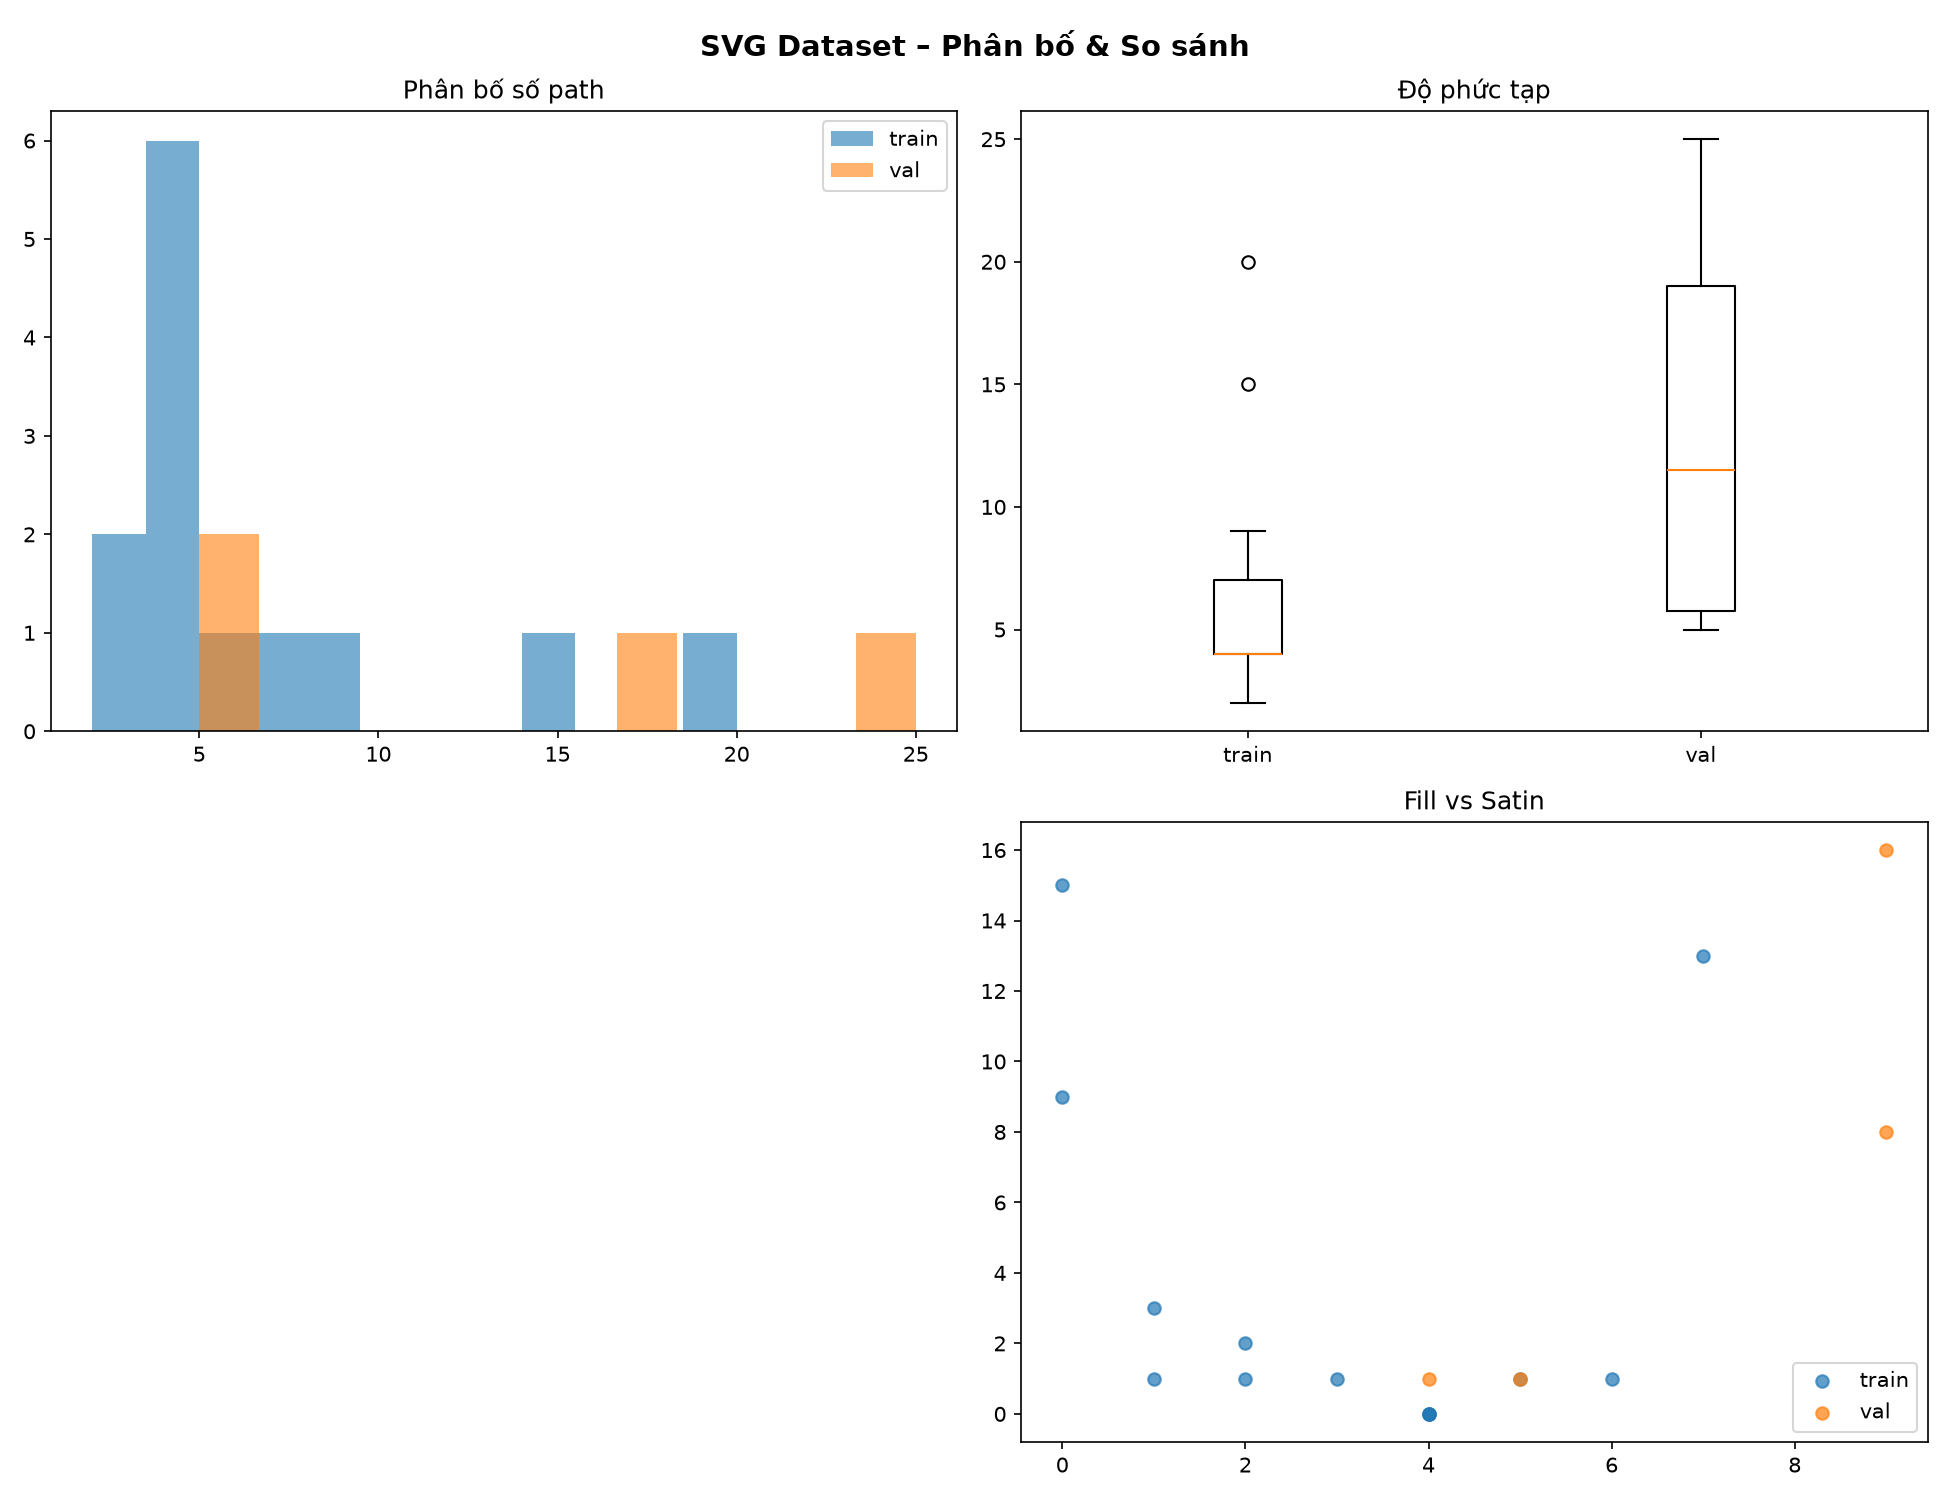
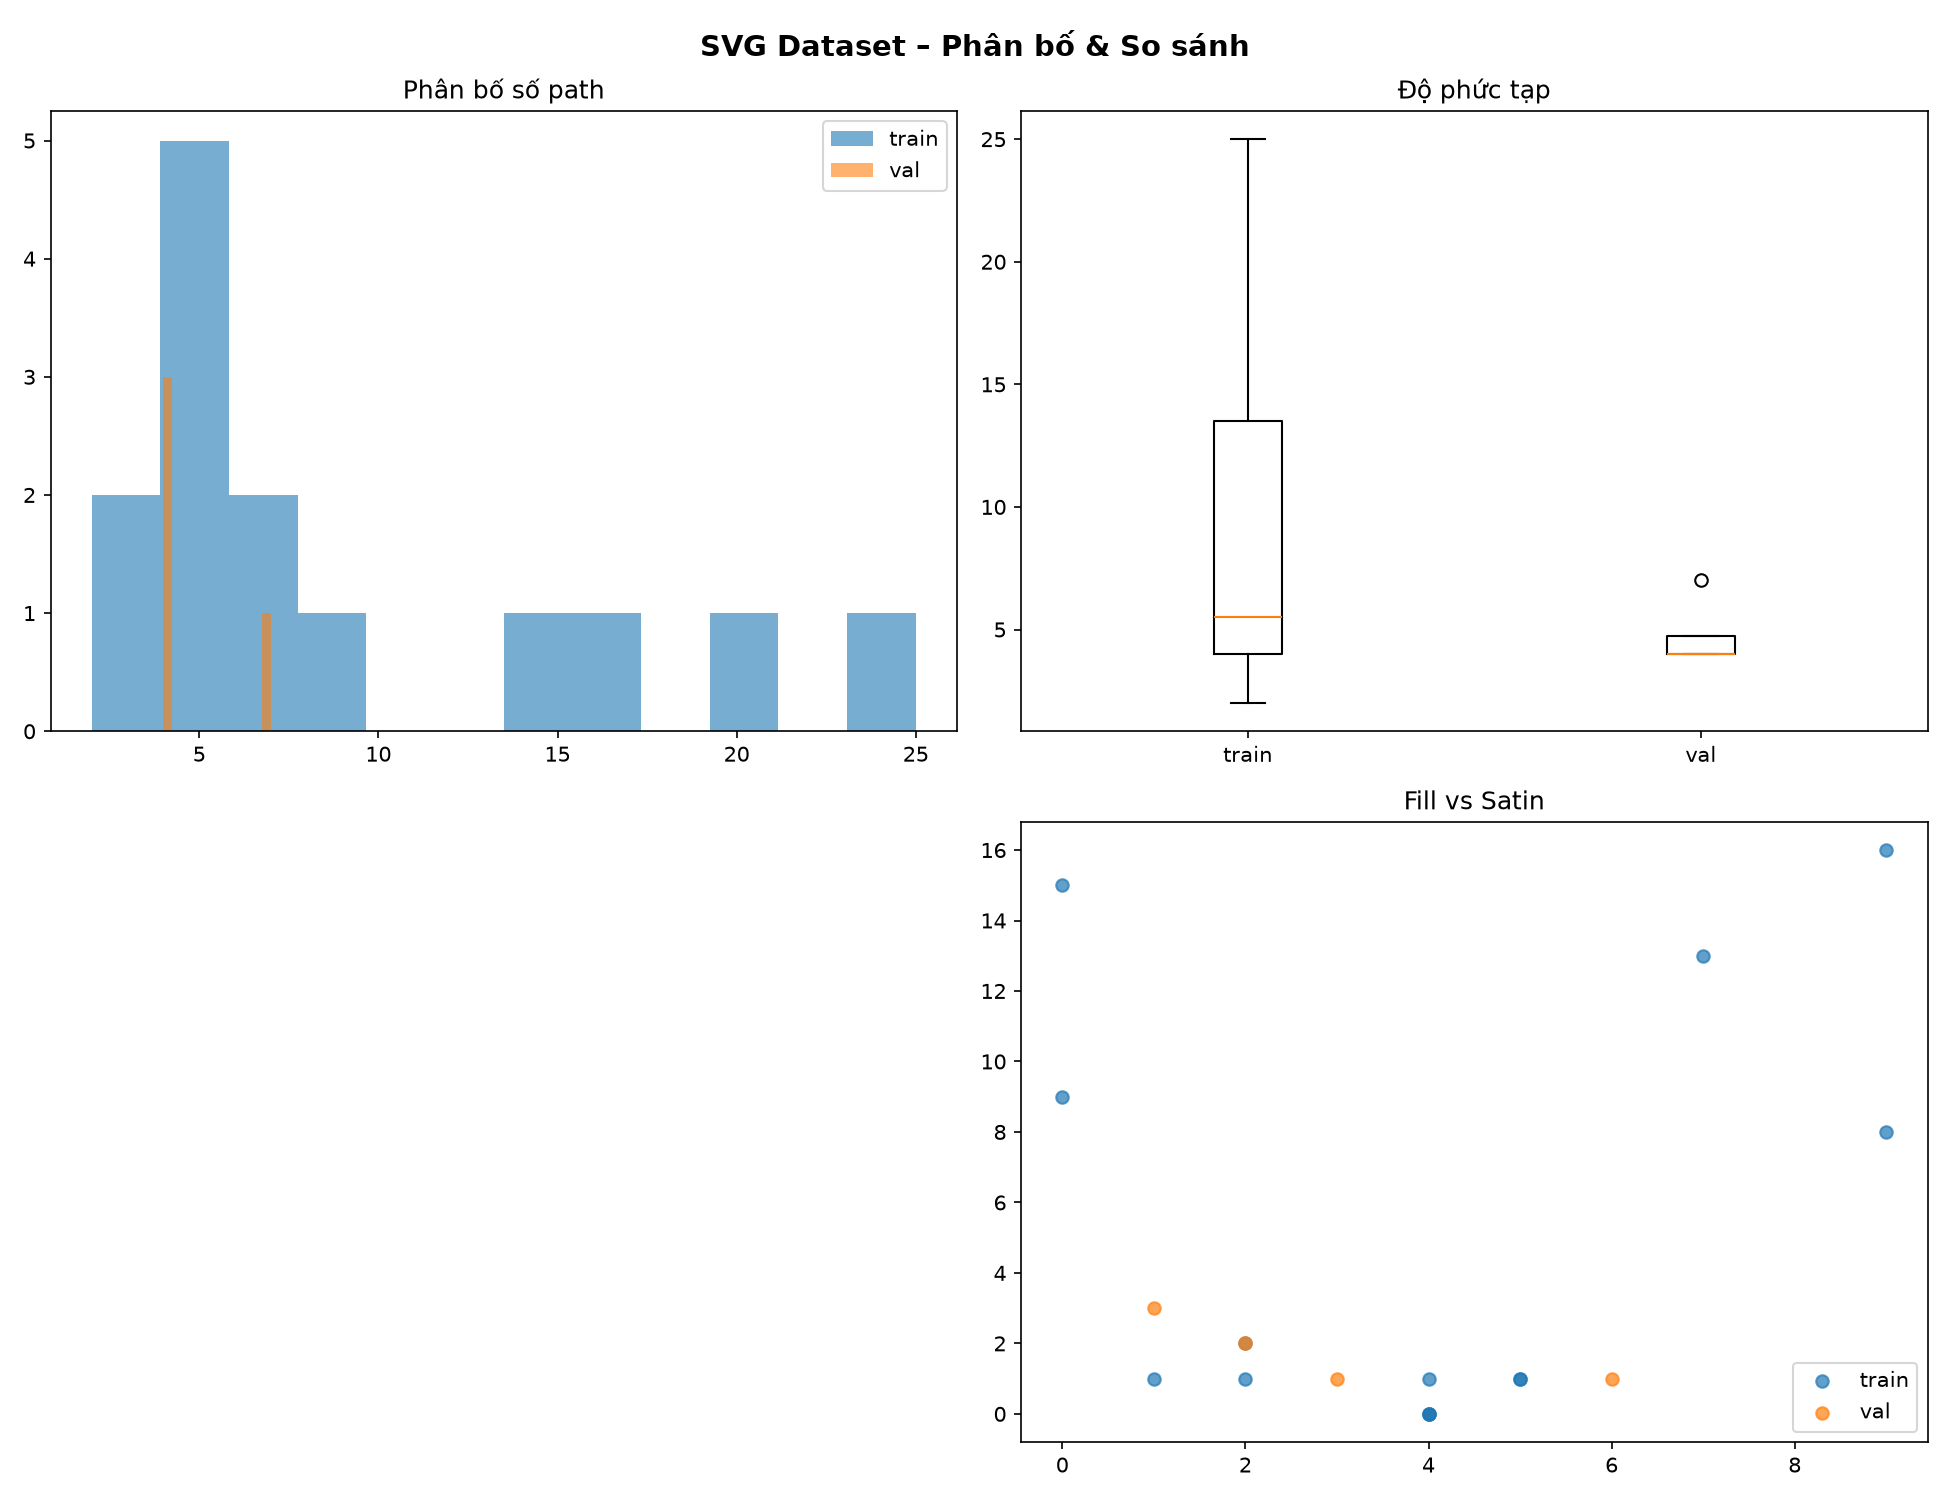
chia lại tập train val

diff --git a/scripts/data_prep/convert_single_svg.py b/scripts/data_prep/convert_single_svg.py
@@ -525,7 +525,7 @@ def process_single_image(input_path: str, output_path: str = None, use_fal: bool
 
 
 if __name__ == "__main__":
-    INPUT_PATH = "88.png"  
+    INPUT_PATH = "38.png"  
     OUTPUT_PATH = None  
     USE_FAL = True 
     
